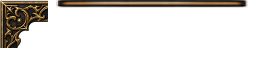
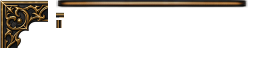
fix(ui): buff tooltip edges cut from the corner art so frame and corners match

Changed region(s): [[0.2188, 0.3125, 0.25, 0.4375], [0.2188, 0.1875, 0.25, 0.2812]]

diff --git a/src/source/UI/NewUI/HUD/BuffTooltip.cpp b/src/source/UI/NewUI/HUD/BuffTooltip.cpp
@@ -28,15 +28,20 @@ namespace UI::Buffs::Tooltip
         constexpr float AtlasRuleWidth = 96.f;
         constexpr float AtlasRuleHeight = 4.f;
         constexpr float RuleHeight = 4.f;
+        // Border strips, in atlas pixels (see tools/ui_hd/tooltip_ornaments.py), and their thickness on screen.
+        constexpr float AtlasStripX = 28.f;
+        constexpr float AtlasTopStripY = 6.f;
+        constexpr float AtlasLeftStripY = 10.f;
+        constexpr float AtlasStripLong = 4.f;
+        constexpr float AtlasStripThin = 2.75f;
+        constexpr float AtlasInset = 0.125f;
+        constexpr float BorderThickness = AtlasStripThin * CornerSize / AtlasCornerSize;
         constexpr float HighlightBands = 6.f;
 
         constexpr unsigned int ShadowOuter = 0x30000000;
         constexpr unsigned int ShadowInner = 0x50000000;
         constexpr unsigned int BodyColor = 0xF2100D16;
         constexpr unsigned int HighlightColor = 0x0CFFE2A0;
-        constexpr unsigned int BorderOuter = 0xFF1A1208;
-        constexpr unsigned int BorderGold = 0xFFB38B35;
-        constexpr unsigned int BorderInner = 0x40E6C477;
 
         bool IsDivider(int line)
         {
@@ -57,18 +62,14 @@ namespace UI::Buffs::Tooltip
         {
             RenderColorQuadARGB(x + 2, y + 3, width, height, ShadowOuter);
             RenderColorQuadARGB(x + 1, y + 2, width, height, ShadowInner);
-            RenderColorQuadARGB(x, y, width, height, BorderOuter);
-            RenderColorQuadARGB(x + 1, y + 1, width - 2, height - 2, BorderGold);
-            RenderColorQuadARGB(x + 2, y + 2, width - 4, height - 4, BodyColor);
-            const float bandHeight = (height - 4) / HighlightBands / 2.f;
+            RenderColorQuadARGB(x, y, width, height, BodyColor);
+            const float bandHeight = height / HighlightBands / 2.f;
             for (int band = 0; band < static_cast<int>(HighlightBands); ++band)
             {
                 const unsigned int alpha = (HighlightColor >> 24) * (HighlightBands - band) / HighlightBands;
-                RenderColorQuadARGB(x + 2, y + 2 + band * bandHeight, width - 4, bandHeight,
+                RenderColorQuadARGB(x, y + band * bandHeight, width, bandHeight,
                     (alpha << 24) | (HighlightColor & 0x00FFFFFF));
             }
-            RenderColorQuadARGB(x + 3, y + 3, width - 6, 1, BorderInner);
-            RenderColorQuadARGB(x + 3, y + height - 4, width - 6, 1, BorderInner);
         }
 
         // Draws the atlas rectangle (in atlas pixels) mirrored horizontally and/or vertically.
@@ -90,6 +91,23 @@ namespace UI::Buffs::Tooltip
                 vHeight = -vHeight;
             }
             RenderBitmap(texture, x, y, width, height, u, v, uWidth, vHeight);
+        }
+
+        void RenderBorder(int texture, float x, float y, float width, float height)
+        {
+            const float runWidth = width - CornerSize * 2;
+            const float runHeight = height - CornerSize * 2;
+            const float topX = AtlasStripX + AtlasInset;
+            const float longRun = AtlasStripLong - AtlasInset * 2;
+            const float thin = AtlasStripThin - AtlasInset;
+            RenderAtlas(texture, x + CornerSize, y, runWidth, BorderThickness,
+                topX, AtlasTopStripY + AtlasInset, longRun, thin, false, false);
+            RenderAtlas(texture, x + CornerSize, y + height - BorderThickness, runWidth, BorderThickness,
+                topX, AtlasTopStripY + AtlasInset, longRun, thin, false, true);
+            RenderAtlas(texture, x, y + CornerSize, BorderThickness, runHeight,
+                topX, AtlasLeftStripY + AtlasInset, thin, longRun, false, false);
+            RenderAtlas(texture, x + width - BorderThickness, y + CornerSize, BorderThickness, runHeight,
+                topX, AtlasLeftStripY + AtlasInset, thin, longRun, true, false);
         }
 
         void RenderCorners(int texture, float x, float y, float width, float height)
@@ -173,6 +191,7 @@ namespace UI::Buffs::Tooltip
         EnableAlphaTest();
         RenderBox(x, y, width, height);
         EndRenderColor();
+        RenderBorder(ornamentTexture, x, y, width, height);
         RenderCorners(ornamentTexture, x, y, width, height);
         float lineY = y + PaddingY;
         for (int line = 0; line < count; ++line)

diff --git a/tools/ui_hd/tooltip_ornaments.py b/tools/ui_hd/tooltip_ornaments.py
@@ -4,7 +4,9 @@
 
 Writes src/bin/Data/Interface/BuffDetails/tooltip_ornaments.OZT (1x, the original the loader looks for) and the
 Interface@4x and Interface@2x tiers. Layout in logical pixels (128 x 32): the corner ornament (24 x 24) at 0,0 and the
-gold rule (96 x 4) at 28,0. The corner is the top-left one; the game mirrors it for the other three.
+gold rule (96 x 4) at 28,0, and two border strips cut from the straight part of the corner art so the edges match the
+corners exactly: the top one (4 x 2.75) at 28,6 and the left one (2.75 x 4) at 28,10. The corner is the top-left one; the
+game mirrors it for the other three and stretches the strips along the edges.
 """
 import os
 
@@ -23,6 +25,11 @@ CORNER_SIZE = 24
 CORNER_ORIGIN = (0, 0)
 RULE_SIZE = (96, 4)
 RULE_ORIGIN = (28, 0)
+STRIP_SOURCE_BAND = 22
+STRIP_SOURCE_RUN = (156, 188)
+STRIP_SIZE = (16, 11)
+TOP_STRIP_ORIGIN = (112, 24)
+LEFT_STRIP_ORIGIN = (112, 40)
 RULE_SOURCE_ROWS = (148, 157)
 RULE_SOURCE_WIDTH = 390
 
@@ -54,6 +61,12 @@ def build_master():
     rule = load("icon_Rank_table").crop((0, RULE_SOURCE_ROWS[0], RULE_SOURCE_WIDTH, RULE_SOURCE_ROWS[1]))
     rule = resize_premultiplied(rule, (RULE_SIZE[0] * scale, RULE_SIZE[1] * scale))
     atlas.alpha_composite(rule, (RULE_ORIGIN[0] * scale, RULE_ORIGIN[1] * scale))
+    corner_source = load("newui_auction_frame_corner")
+    run = STRIP_SOURCE_RUN
+    top = corner_source.crop((run[0], 0, run[1], STRIP_SOURCE_BAND))
+    left = corner_source.crop((0, run[0], STRIP_SOURCE_BAND, run[1]))
+    atlas.alpha_composite(resize_premultiplied(top, STRIP_SIZE), TOP_STRIP_ORIGIN)
+    atlas.alpha_composite(resize_premultiplied(left, STRIP_SIZE[::-1]), LEFT_STRIP_ORIGIN)
     return np.asarray(atlas)
 
 
